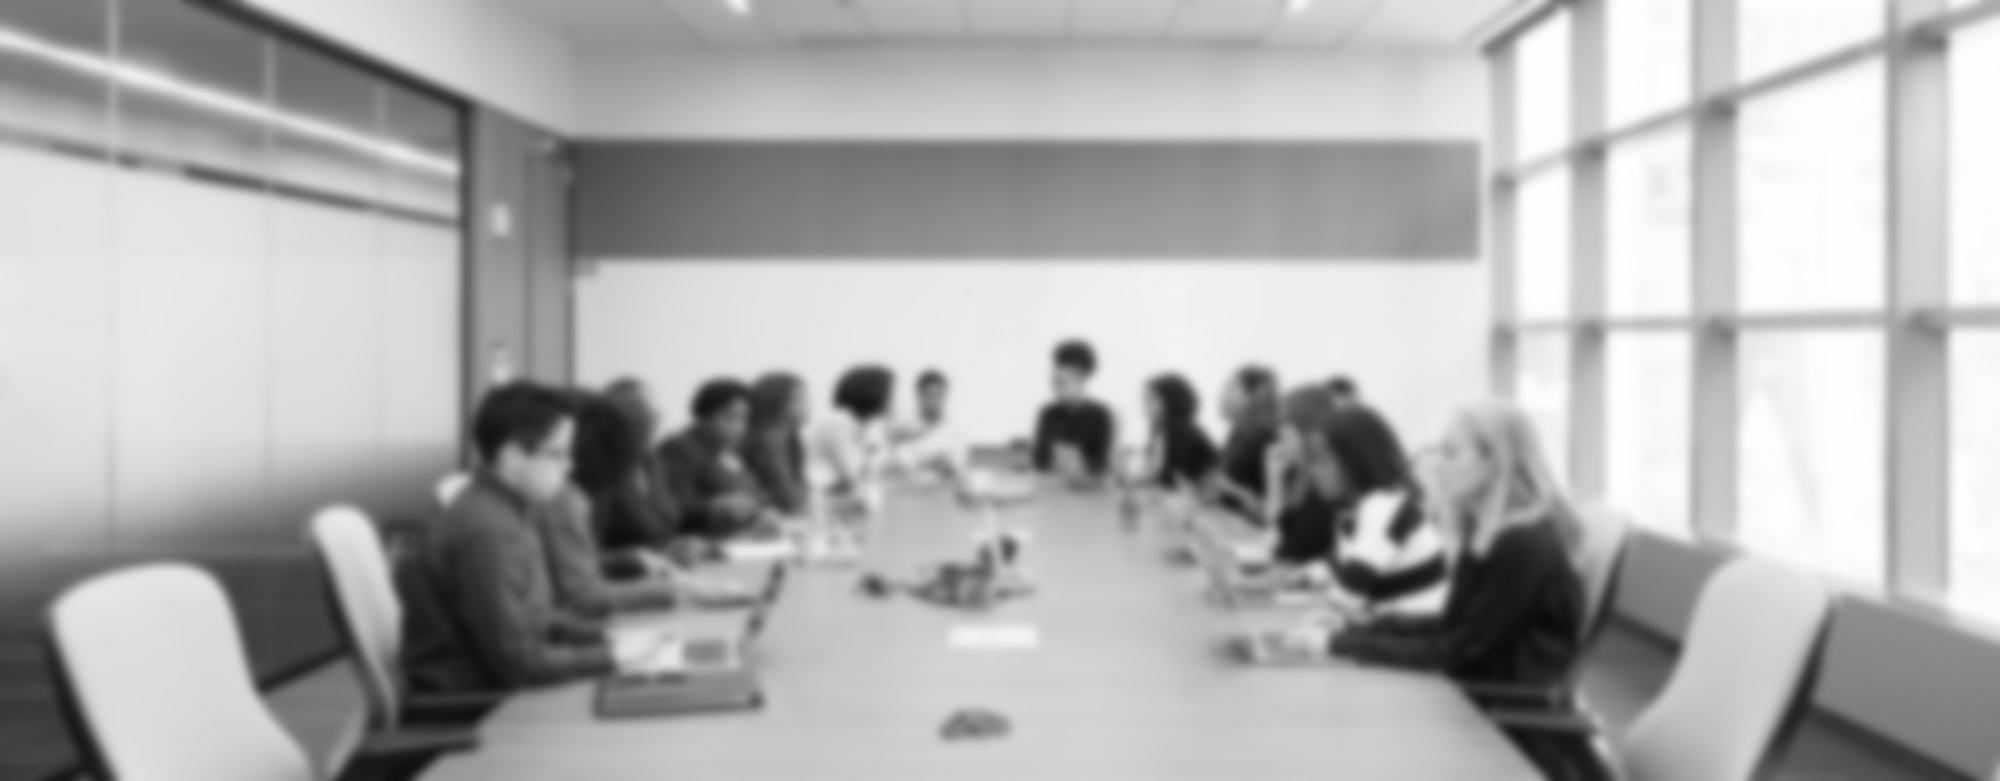
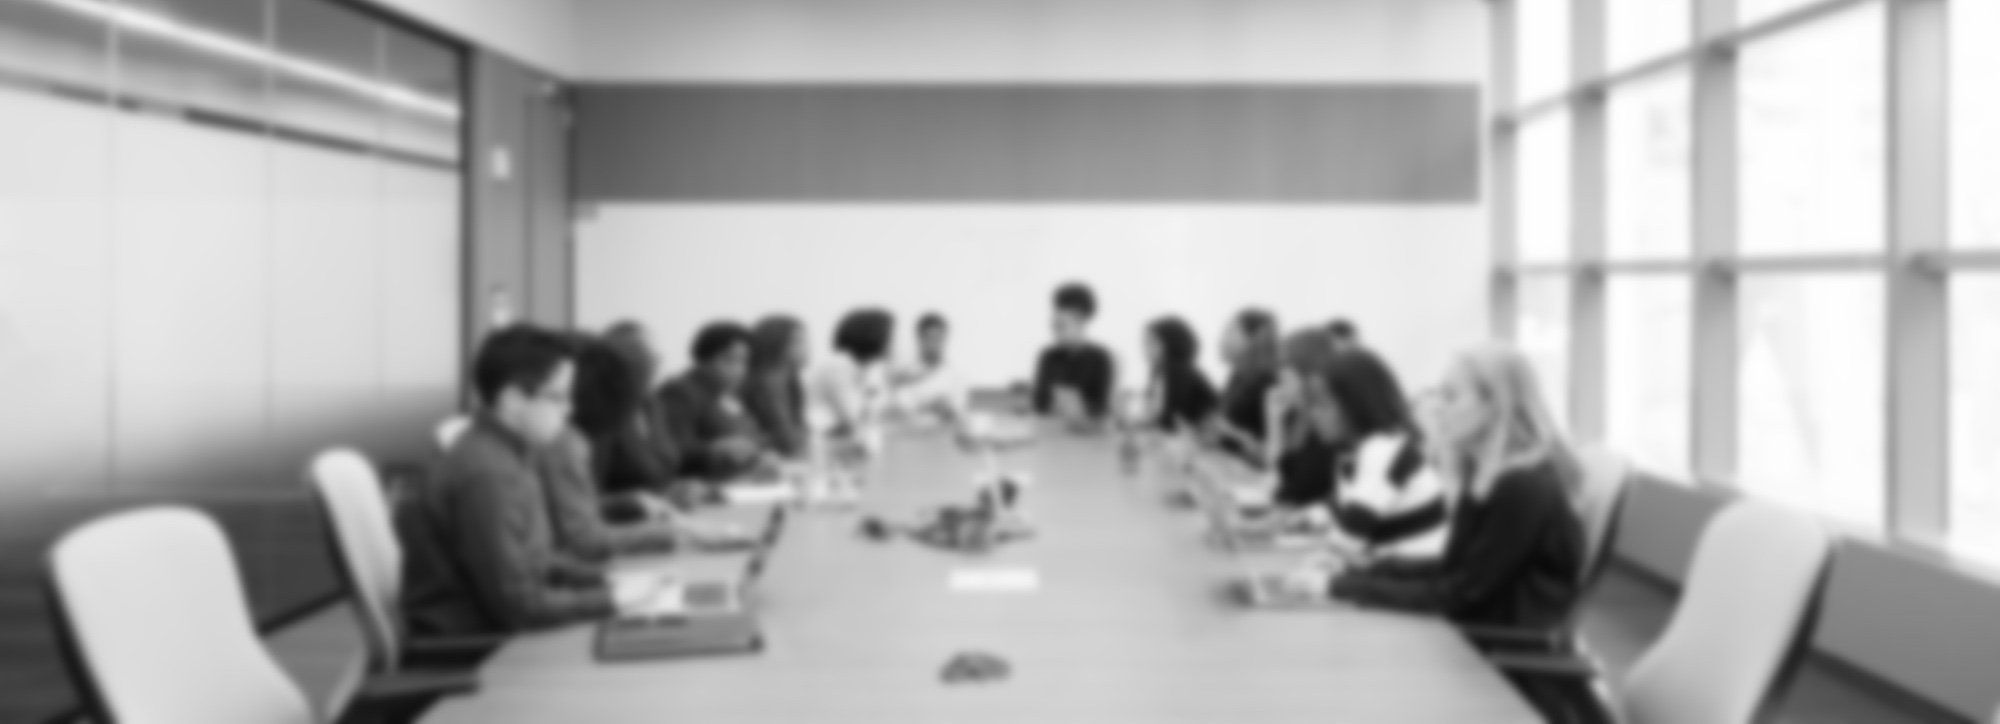
add new top images

diff --git a/_layouts/default.html b/_layouts/default.html
@@ -8,6 +8,7 @@
     <link rel="stylesheet" type="text/css" href="stylesheets/stylesheet.css" media="screen" />
     <link rel="stylesheet" type="text/css" href="stylesheets/pygment_trac.css" media="screen" />
 <!--    <link rel="stylesheet" type="text/css" href="stylesheets/twitter-widget.css" media="screen" />-->
+<link rel='stylesheet' id='fontawesome-css'  href='//maxcdn.bootstrapcdn.com/font-awesome/4.2.0/css/font-awesome.min.css?ver=1.0' type='text/css' media='all' />
     <link rel="stylesheet" type="text/css" href="stylesheets/callbackwomen.css" media="screen" />
     <link rel="stylesheet" type="text/css" href="stylesheets/print.css" media="print" />
     <!--[if lt IE 9]>
@@ -17,44 +18,50 @@
 </head>
 
 <body>
-    <div id="container">
-        <div class="inner">
-            <section id="main_content">
-                <header id="branding">
-                    <a href="index.html">
-                        <img id="logo" alt="CallbackWomen" title="CallbackWomen" src="images/callbackwomen-logo-wide-large.png">
-                        </a>
-                </header>
-
-                <article id="page-primary-content">
-                    <h1>
-                    {{ page.title }}
-                    </h1>
-                    
-                    {{ content }}
-                </article>
-
-                <aside id="sidebar">
-                    <section id="donate">
-                        <p align="center">
-                            <a href="donate.html"><button id="donate-button">Donate</button></a>
-                        </p>
-                    </section>
-
-                    <section id="twitter-feed">
-<!--
-                        <a href="http://twitter.com/callbackwomen"><strong>Follow @callbackwomen</strong></a>
-                            <img src="images/icons/twitter-24.png"
--->
-                        {% include twitter-feed.html %}
-                    </section>
-
-                </aside>
-                    <nav>
-                        <hr/> {% include navigation.html %}
-                    </nav>
-            </section>
-        </div>
-    </div>
+	<div id="wrapper">
+		<div id="sidenav">
+			 {% include navigation.html %}
+		</div>
+	    <div id="container">
+		    <header id="branding">
+                <img alt="CallbackWomen background" title="CallbackWomen background" src="images/bg/blur-women.jpg">
+                <div class="logo">
+                	<a href="index.html"><img id="logo" alt="CallbackWomen" title="CallbackWomen" src="images/callbackwomen-logo-tp.png"></a>
+                	<div id="opennav"><i class="fa fa-align-justify fa-2x" aria-hidden="true"></i></div>
+                </div>
+	        </header>
+	        <div class="inner">
+	            <section id="main_content">
+	                <article id="page-primary-content">
+	                    <h1>
+	                    {{ page.title }}
+	                    </h1>
+	                    
+	                    {{ content }}
+	                </article>
+	
+	                <aside id="sidebar">
+	                    <section id="donate">
+	                        <p align="center">
+	                            <a href="donate.html"><button id="donate-button" class="donate">Donate</button></a>
+	                        </p>
+	                    </section>
+	
+	                    <section id="twitter-feed">
+	<!--
+	                        <a href="http://twitter.com/callbackwomen"><strong>Follow @callbackwomen</strong></a>
+	                            <img src="images/icons/twitter-24.png"
+	-->
+	                        {% include twitter-feed.html %}
+	                    </section>
+	
+	                </aside>
+	                    <nav>
+	                        <hr/> {% include navigation.html %}
+	                    </nav>
+	            </section>
+	        </div>
+	    </div>
+	</div><!-- end #wrapper -->
 </body>
 </html>

diff --git a/stylesheets/stylesheet.css b/stylesheets/stylesheet.css
@@ -23,6 +23,7 @@ time, mark, audio, video {
 	vertical-align: baseline;
 }
 /* HTML5 display-role reset for older browsers */
+body {width: 100%;}
 article, aside, details, figcaption, figure, 
 footer, header, hgroup, menu, nav, section {
 	display: block;
@@ -46,6 +47,7 @@ table {
 	border-spacing: 0;
 }
 
+img {max-width: 100%; height: auto;}
 /************************************
 *** LAYOUT STYLES ***
 *************************************/
@@ -62,11 +64,6 @@ a {
 }
 a:hover {
   color: #c5000c;
-}
-
-header {
-  padding-top: 35px;
-  padding-bottom: 25px;
 }
 
 header h1 {
@@ -156,13 +153,15 @@ button.donate {
 	background-color: blue;
 	color: #fff;
 	border:1px solid blue;
-	-moz-border-radius: 8px;
-	-webkit-border-radius: 8px;                     
-	border-radius: 8px;
-	transition: background-color 0.3s ease;
+	-moz-border-radius: 12px;
+	-webkit-border-radius: 12px;                     
+	border-radius: 12px;
+	transition: background-color 0.3s ease, border 0.3s ease;
+  font-size: 1.5rem;
 }
 button.donate:hover {
 	background-color: red;
+  border:1px solid red;
 }
 
 #download-zip span {
@@ -290,6 +289,7 @@ h6 {
 p {
   font-weight: 300;
   margin-bottom: 20px;
+  font-size: 1.1rem;
 }
  
 a {
@@ -308,8 +308,12 @@ blockquote {
 }
 
 ul li {
-  list-style: disc inside;
-  padding-left: 20px;
+  list-style: disc;
+  margin-left: 40px;
+  font-weight: 300;
+  font-size: 1.1rem;
+  line-height: 1.5em;
+  padding-bottom: 2px;
 }
 
 ol li {

diff --git a/stylesheets/callbackwomen.css b/stylesheets/callbackwomen.css
@@ -11,10 +11,34 @@ body
 #branding
 {
     text-align: center;
-    border: 1px solid grey;
-    background-color: white;
-    margin: 2em 0 2em 0;
-    padding: 2.5em;
+    margin: 0 0 1.5em 0;
+    position: relative;
+}
+#branding a {
+  display: block; position: relative;
+}
+#branding .logo-menu {
+  position: absolute; top:0; left:0; right: 0;
+  background:rgba(255,255,255,0.5);
+}
+#branding .logo-menu .logo {
+	display: block;
+  width: 80%;
+  float: left;
+}
+#branding .logo-menu img {
+  margin:0 auto;
+  max-width: 1000px;
+  height: auto;
+}
+
+#branding .logo-menu #opennav {
+	color:#fff;
+	padding: 10px;
+	display: block;
+	float: right;
+	width: 10%;
+	text-align: right;
 }
 
 #page-primary-content
@@ -77,28 +101,20 @@ nav
     font-size: 100%;
 }
 
-#nav table
-{
-  border-collapse: collapse;
+#sidenav {
+	display: none;
+	width: 230px;
+	position: absolute;
+	height: 100%;
+	background-color:#000;
+	color:#fff;
 }
-
-#nav table, #nav tr, #nav td
-{
-  border: none;
-}
-
+#nav div {width: 49%; display: inline-block;}
+#sidenav #nav div {width: 100%; display: block;}
 #nav ul
 {
   font-size: 90%;
 }
-
-#nav td 
-{
-  width: 50%;
-  text-align: left;
-  vertical-align: top;
-}
-
 
 #nav ol, #nav p
 {
